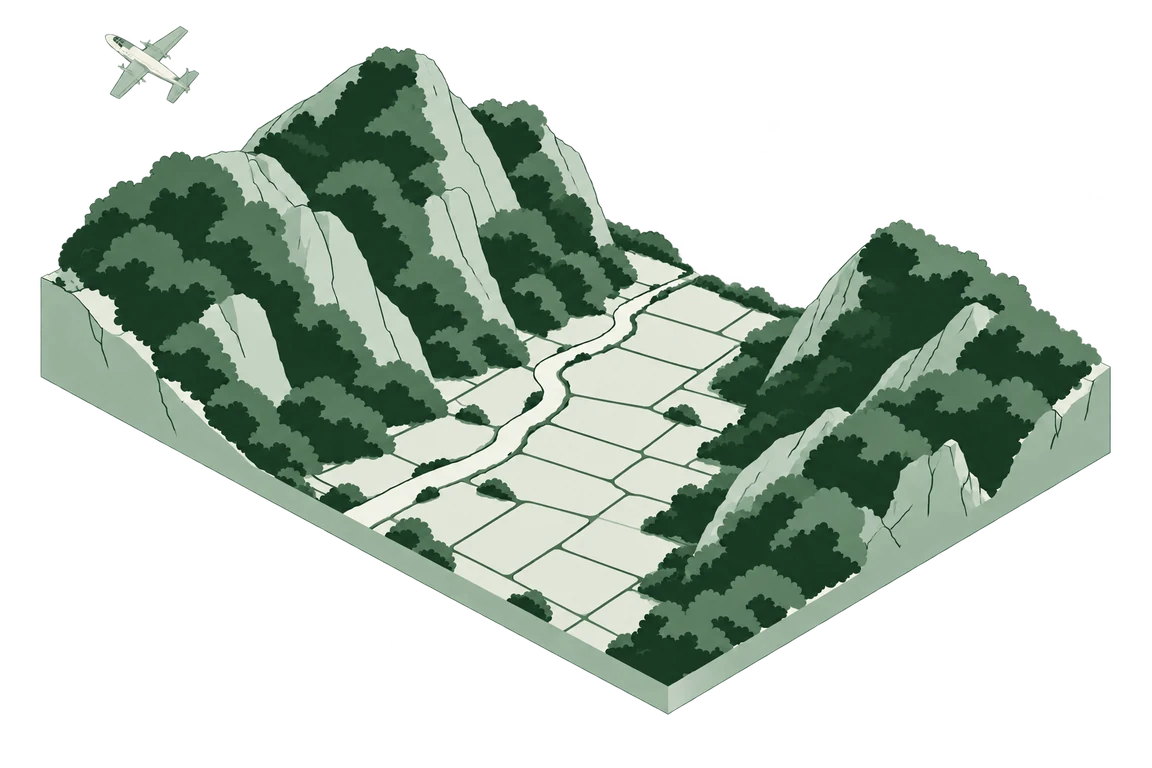
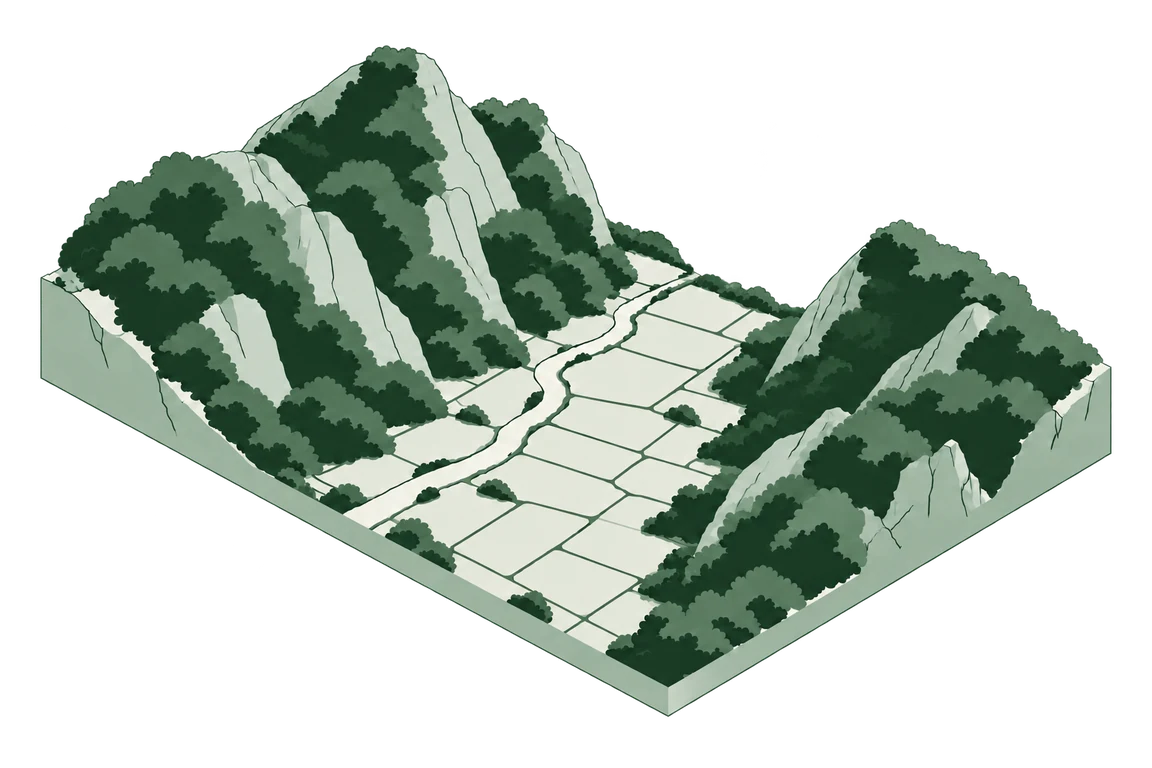
Card art C, the illustrator's final pass: 01 and 05 redrawn, residue on 03 and 04, the pool grown
The final C handoff of 2026-09-19, ported with the geometry unchanged:

- 01: a new base picture with the aircraft lower and to the left, and its
  ivory sprays now running up and to the right behind it.
- 03: the spray fans twice as wide (half-width 3.4 -> 6.8), and a static
  orange residue on the dead trees and the ground beside them.
- 04: the same residue on the dead mangroves, and three patches on the
  water. The boat and its wake as before.
- 05: the base picture without its aircraft; the aircraft is now the
  illustrator's own pixels, cut from the original picture (155x125 at
  125,20, anchored at 210,85 where it sat) and carried from the lower right
  to that spot over 6.6s, three long orange trails growing behind it. It
  plays once and rests where it arrived, trails full. The cut is a 29KB
  PNG in src/figures/cards/c/parts, laid into the SVG as an <image>; the
  full 1536x1024 source stays out of the repository.
- 06: the pool grows to 1.8x the drawn path (3.24x the area), turned 18
  degrees about the point it lands on.
- 02, 07, 08 unchanged.

The residue is there in every frame, at rest and under reduced motion.
Checked in the browser: 01's fans end at the handoff's coordinates; 03 and
04 carry their marks; 05's aircraft moves, arrives at 210,85 with its
trails full and stays; 06's pool rests at 1.8x, rotated; under reduced
motion 05 shows the arrived aircraft and 03/04 their marks.

Claude-Session: https://claude.ai/code/session_01Gavo1rgSUPfNQuaH3s1yiU

diff --git a/src/components/cardArtMotion.ts b/src/components/cardArtMotion.ts
@@ -1,16 +1,19 @@
 /* The moving parts of the C illustrations, ported from the illustrator's
-   C/app.js (handoff of 2026-09-19) with the geometry unchanged: the spray
-   fans on 01/03/05, the ramp chevrons on 02, the boat and its wake on 04,
-   the drum's liquid on 06, the row highlights on 07, the chart scan on 08.
-   Coordinates are source-image pixels on a 1536x1024 viewBox laid over the
-   PNG in the same frame (both fitted `contain`, so both letterbox alike).
+   C/app.js (final handoff of 2026-09-19) with the geometry unchanged: the
+   spray fans on 01 and 03, the ramp chevrons on 02, the boat and its wake on
+   04, the aircraft and its three long trails on 05, the drum's liquid on 06,
+   the row highlights on 07, the chart scan on 08; and, still, the orange
+   residue on the dead trees, ground and water of 03 and 04. Coordinates are
+   source-image pixels on a 1536x1024 viewBox laid over the PNG in the same
+   frame (both fitted `contain`, so both letterbox alike).
 
    t runs 0..1 over the preview's 8000ms master cycle. The preview loops;
    the page plays each card once, the first time it is active, up to the
    scene's `end` and then shows its `rest`: the sprays out and staying, the
-   drum's pool grown, the boat at rest, the chevrons and row highlights
-   gone, the scan finished. The rest is also what a reader who asked for
-   reduced motion sees, in place of the play. */
+   aircraft arrived with its trails behind it, the drum's pool grown, the
+   boat at rest, the chevrons and row highlights gone, the scan finished.
+   The rest is also what a reader who asked for reduced motion sees, in
+   place of the play; the residue is there in every frame. */
 
 const NS = 'http://www.w3.org/2000/svg'
 
@@ -25,6 +28,10 @@ export type Motion = {
   rest: () => void
 }
 
+/** Bitmaps a scene lays into its SVG, by name: today only the aircraft on
+ *  05, the illustrator's own pixels cut from the original picture. */
+export type Parts = Record<string, string>
+
 type Attrs = Record<string, string | number>
 
 function el<K extends keyof SVGElementTagNameMap>(tag: K, attrs: Attrs, parent: Element): SVGElementTagNameMap[K] {
@@ -36,22 +43,20 @@ function el<K extends keyof SVGElementTagNameMap>(tag: K, attrs: Attrs, parent: 
 const lerp = (a: number, b: number, t: number) => a + (b - a) * t
 const clamp = (t: number) => Math.max(0, Math.min(1, t))
 
-/* Spray fans: start x,y (the boom) to end x,y, three per aircraft. */
+const ORANGE = '#E9954B'
+
+/* Spray fans: start x,y (the boom) to end x,y, three per aircraft. 01's run
+   up and to the right, behind an aircraft flying to the lower left. */
 const SPRAY: Record<string, [number, number, number, number][]> = {
   begins: [
-    [503, 239, 1170, 420],
-    [504, 241, 1138, 446],
-    [503, 243, 1080, 456],
+    [486, 292, 1136, 27],
+    [495, 294, 1235, 44],
+    [504, 296, 1334, 62],
   ],
   peak: [
     [625, 116, 1118, 325],
     [873, 165, 1328, 362],
     [1140, 231, 1439, 363],
-  ],
-  'a-sau': [
-    [240, 82, 1260, 412],
-    [251, 103, 1228, 484],
-    [241, 112, 1178, 556],
   ],
 }
 
@@ -113,21 +118,79 @@ const ROWS: [number, number][][] = [
   [[768, 711]],
 ]
 
+/* The residue on 03 and 04: an illustrative orange accent on the dead
+   vegetation and the ground beside it (and, on 04, three patches of
+   water). Static, under everything that moves. */
+const RESIDUE: Record<string, { ground: [number, number, number, number][]; branches: string[]; water: string[] }> = {
+  peak: {
+    ground: [
+      [980, 606, 36, 10],
+      [1205, 700, 42, 12],
+      [1335, 744, 32, 9],
+      [1101, 754, 47, 12],
+    ],
+    branches: [
+      'M991 468 L987 558',
+      'M985 497 L966 481',
+      'M1198 553 L1208 655',
+      'M1201 580 L1223 558',
+      'M1339 617 L1344 704',
+      'M1341 642 L1324 628',
+    ],
+    water: [],
+  },
+  mangroves: {
+    ground: [
+      [1107, 665, 35, 10],
+      [1252, 543, 38, 10],
+      [1233, 620, 35, 9],
+    ],
+    branches: [
+      'M1105 469 L1112 547',
+      'M1109 501 L1086 479',
+      'M1244 303 L1249 389',
+      'M1247 354 L1270 335',
+      'M1106 600 L1089 627',
+    ],
+    water: [
+      'M775 486 Q812 476 855 490 Q827 499 794 495Z',
+      'M726 568 Q768 556 809 570 Q788 580 745 578Z',
+      'M664 644 Q698 634 744 648 Q720 658 680 654Z',
+    ],
+  },
+}
+
+function residue(svg: SVGSVGElement, id: string) {
+  const r = RESIDUE[id]
+  if (!r) return
+  const marks = el('g', { fill: ORANGE, stroke: ORANGE, 'stroke-linecap': 'round' }, svg)
+  for (const [x, y, rx, ry] of r.ground) {
+    el(
+      'ellipse',
+      { cx: x, cy: y, rx, ry, 'fill-opacity': 0.26, stroke: 'none', transform: `rotate(18 ${x} ${y})` },
+      marks,
+    )
+  }
+  for (const d of r.branches) el('path', { d, fill: 'none', 'stroke-width': 6, 'stroke-opacity': 0.58 }, marks)
+  for (const d of r.water) el('path', { d, fill: ORANGE, 'fill-opacity': 0.32, stroke: 'none' }, marks)
+}
+
 let clipSeq = 0
 
 /** Build the overlay for one card into `svg` (emptied first), or null for a
  *  card with no moving parts. */
-export function mountMotion(svg: SVGSVGElement, id: string): Motion | null {
+export function mountMotion(svg: SVGSVGElement, id: string, parts: Parts = {}): Motion | null {
   svg.replaceChildren()
   const motions: ((t: number) => void)[] = []
   const paint = (t: number) => {
     for (const m of motions) m(t)
   }
+  residue(svg, id)
 
   if (SPRAY[id]) {
     /* 01 sprays in ivory: the first test runs were not Agent Orange. */
-    const color = id === 'begins' ? '#e8ece6' : '#E9954B'
-    const halfWidth = id === 'peak' ? 3.4 : 6.2
+    const color = id === 'begins' ? '#e8ece6' : ORANGE
+    const halfWidth = id === 'peak' ? 6.8 : 6.2
     SPRAY[id].forEach((a, i) => {
       const p = el('polygon', { fill: color }, svg)
       motions.push((t) => {
@@ -153,6 +216,51 @@ export function mountMotion(svg: SVGSVGElement, id: string): Motion | null {
     /* Every fan is out by t = 0.6 and none has begun to fade; that is the
        picture that stays. */
     return { paint, end: 0.6, rest: () => paint(0.6) }
+  }
+
+  if (id === 'a-sau') {
+    /* The aircraft is the illustrator's own pixels, cut from the original
+       picture (the rectangle at 125,20 of 155x125), carried with its anchor
+       at 210,85 -- where it sat in that picture -- from the lower right to
+       there. Three trails grow behind it. The base picture has no aircraft. */
+    const trailGroup = el('g', { fill: ORANGE }, svg)
+    const trails = [0, 1, 2].map(() => el('polygon', {}, trailGroup))
+    const plane = el('g', {}, svg)
+    if (parts['a-sau-plane']) {
+      el('image', { href: parts['a-sau-plane'], x: 125 - 210, y: 20 - 85, width: 155, height: 125 }, plane)
+    }
+    const rays: [number, number, number, number][] = [
+      [30, -3, 1020, 330],
+      [41, 18, 977, 381],
+      [31, 27, 937, 444],
+    ]
+    motions.push((t) => {
+      const u = clamp((t - 0.05) / 0.83)
+      const x = lerp(1250, 210, u)
+      const y = lerp(660, 85, u)
+      const visible = clamp(t / 0.045) * (1 - clamp((t - 0.9) / 0.1))
+      plane.setAttribute('transform', `translate(${x} ${y})`)
+      plane.setAttribute('opacity', String(visible))
+      rays.forEach(([ox, oy, dx0, dy0], i) => {
+        const sx = x + ox
+        const sy = y + oy
+        const growth = clamp(u / 0.72)
+        const dx = dx0 * growth
+        const dy = dy0 * growth
+        const len = Math.hypot(dx0, dy0)
+        const w = 10 * growth
+        const px = (-dy0 / len) * w
+        const py = (dx0 / len) * w
+        trails[i].setAttribute(
+          'points',
+          `${sx},${sy} ${sx + dx * 0.58 + px},${sy + dy * 0.58 + py} ${sx + dx},${sy + dy} ${sx + dx * 0.58 - px},${sy + dy * 0.58 - py}`,
+        )
+        trails[i].setAttribute('opacity', String(visible))
+      })
+    })
+    /* The aircraft arrives at t = 0.88, its trails full, before the fade
+       that the loop needs; it stays there. */
+    return { paint, end: 0.88, rest: () => paint(0.88) }
   }
 
   if (id === 'mangroves') {
@@ -240,11 +348,11 @@ export function mountMotion(svg: SVGSVGElement, id: string): Motion | null {
       'path',
       {
         d: 'M647 706 C665 701 684 708 702 714 C723 711 739 717 750 721 C773 718 798 725 814 735 C834 736 845 748 825 754 C805 758 792 753 777 757 C758 765 738 759 725 751 C702 753 686 740 675 728 C660 724 648 719 647 706Z',
-        fill: '#E9954B',
+        fill: ORANGE,
       },
       g,
     )
-    const stream = el('path', { fill: 'none', stroke: '#E9954B', 'stroke-width': 7, 'stroke-linecap': 'round' }, g)
+    const stream = el('path', { fill: 'none', stroke: ORANGE, 'stroke-width': 7, 'stroke-linecap': 'round' }, g)
     motions.push((t) => {
       const flow = clamp((t - 0.12) / 0.12)
       const growth = clamp((t - 0.24) / 0.48)
@@ -252,8 +360,10 @@ export function mountMotion(svg: SVGSVGElement, id: string): Motion | null {
       const endY = 684 + 22 * flow
       stream.setAttribute('d', `M647 684 Q645 ${684 + 11 * flow} 647 ${endY}`)
       stream.setAttribute('opacity', String(t > 0.12 ? fade : 0))
-      const scale = Math.pow(growth, 0.72)
-      pool.setAttribute('transform', `translate(647 706) scale(${scale}) translate(-647 -706)`)
+      /* The pool grows to 1.8x the drawn path (3.24x its area), turned 18
+         degrees about the point it lands on. */
+      const scale = 1.8 * Math.pow(growth, 0.72)
+      pool.setAttribute('transform', `translate(647 706) rotate(-18) scale(${scale}) translate(-647 -706)`)
       pool.setAttribute('opacity', String(growth > 0 ? fade : 0))
     })
     /* The pool is full from t = 0.72 and begins to fade at 0.9; it stays

diff --git a/src/figures/cards/index.ts b/src/figures/cards/index.ts
@@ -22,3 +22,15 @@ const FILES = import.meta.glob('./c/*.webp', {
 
 export const CARD_ART: Record<string, string> = {}
 for (const [path, url] of Object.entries(FILES)) CARD_ART[path.replace(/^.*\//, '').replace(/\.webp$/, '')] = url
+
+/* Bitmaps a scene lays into its SVG, by name (cardArtMotion.ts): the
+   aircraft on 05, the illustrator's own pixels cut from the original
+   picture, carried across the valley by the animation. */
+const PART_FILES = import.meta.glob('./c/parts/*.png', { eager: true, import: 'default', query: '?url' }) as Record<
+  string,
+  string
+>
+
+export const CARD_ART_PARTS: Record<string, string> = {}
+for (const [path, url] of Object.entries(PART_FILES))
+  CARD_ART_PARTS[path.replace(/^.*\//, '').replace(/\.png$/, '')] = url

diff --git a/src/components/CardArt.tsx b/src/components/CardArt.tsx
@@ -1,5 +1,5 @@
 import { memo, useEffect, useRef } from 'react'
-import { CARD_ART, CARD_ART_STYLE } from '../figures/cards'
+import { CARD_ART, CARD_ART_PARTS, CARD_ART_STYLE } from '../figures/cards'
 import { MASTER_MS, mountMotion, type Motion } from './cardArtMotion'
 
 /* The illustration at the top of a story card: a 3:2 frame (.story-art in
@@ -41,7 +41,7 @@ function CardArt({ id, active }: { id: string; active: boolean }) {
     if (CARD_ART_STYLE !== 'c') return
     const svg = svgRef.current
     if (!svg) return
-    const m = mountMotion(svg, id)
+    const m = mountMotion(svg, id, CARD_ART_PARTS)
     motion.current = m
     if (m) {
       if (played.has(id) || window.matchMedia(REDUCED).matches) m.rest()
